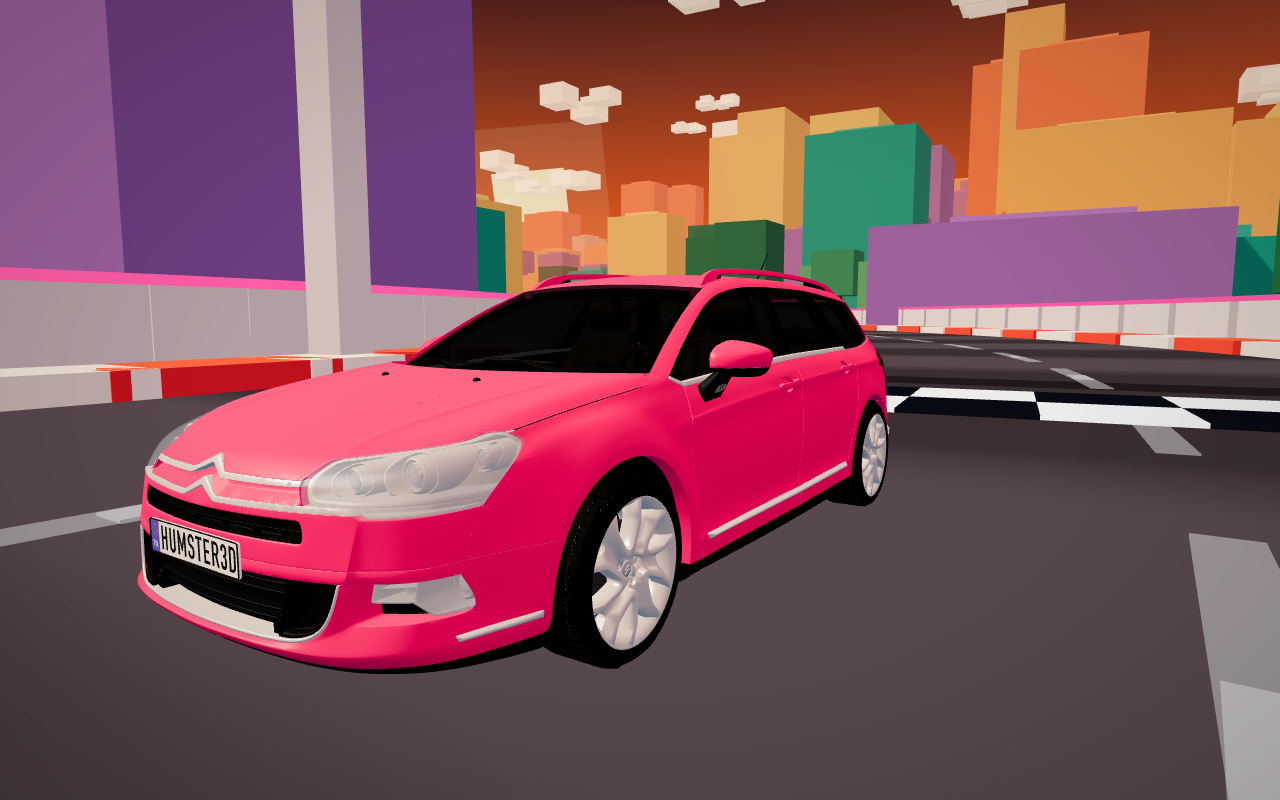
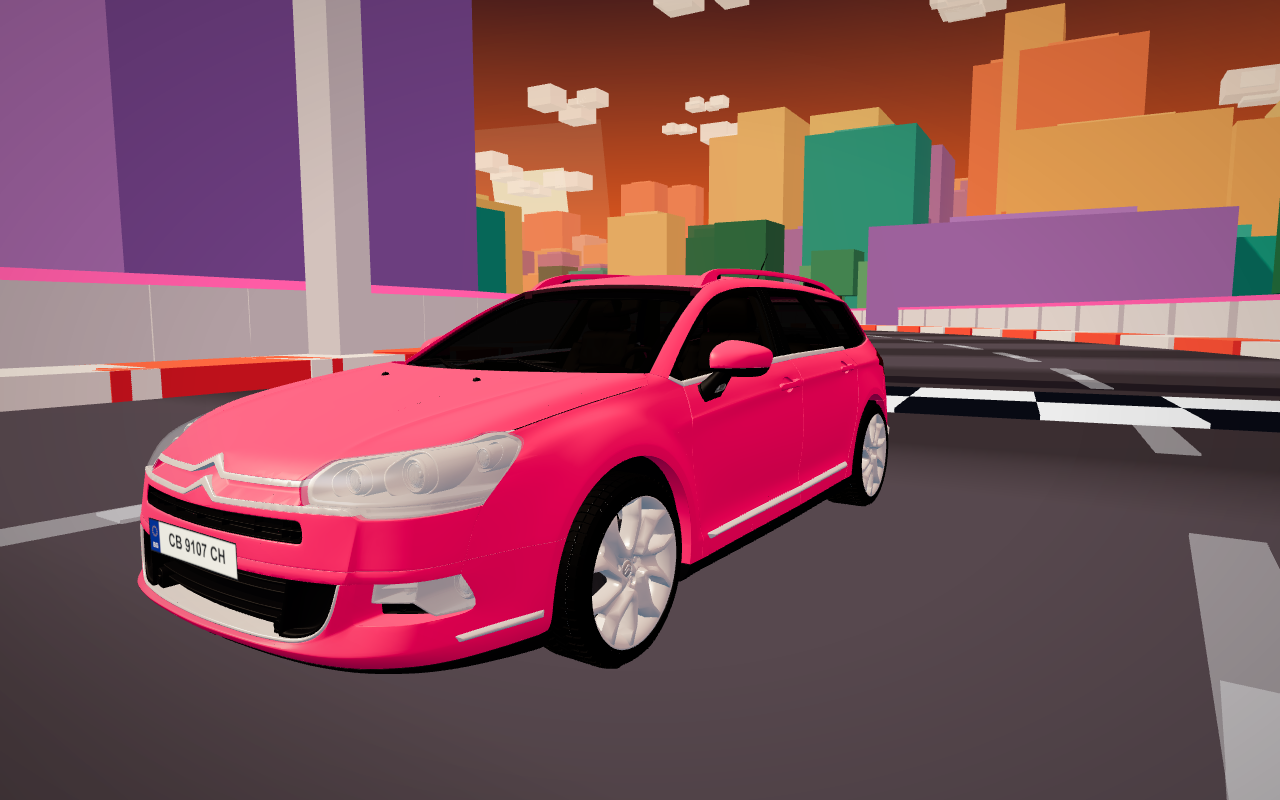
Give the Citroen C5 Tourer a Bulgarian plate
Replace the source HUMSTER3D watermark with a generated Bulgarian plate (EU band, BG, CB 9107 CH) on the front and rear plate clusters.

diff --git a/src/render/citroen-ac.js b/src/render/citroen-ac.js
@@ -49,6 +49,163 @@ function phong(options) {
   });
 }
 
+/** One point of a five-pointed star, for the EU badge. */
+function drawStar(ctx, cx, cy, r, color) {
+  ctx.fillStyle = color;
+  ctx.beginPath();
+  for (let i = 0; i < 10; i++) {
+    const angle = -Math.PI / 2 + i * Math.PI / 5;
+    const radius = i % 2 === 0 ? r : r * 0.42;
+    const x = cx + Math.cos(angle) * radius;
+    const y = cy + Math.sin(angle) * radius;
+    if (i === 0) ctx.moveTo(x, y); else ctx.lineTo(x, y);
+  }
+  ctx.closePath();
+  ctx.fill();
+}
+
+/**
+ * A Bulgarian plate: EU blue band with stars and BG, then the registration
+ * grouped as the country displays it.
+ * @returns {THREE.CanvasTexture|null}
+ */
+function makeBulgarianPlate() {
+  if (typeof document === 'undefined') return null;
+
+  const W = 1024, H = 216;
+  const canvas = document.createElement('canvas');
+  canvas.width = W; canvas.height = H;
+  const ctx = canvas.getContext('2d');
+
+  ctx.fillStyle = '#f4f2e8';
+  ctx.fillRect(0, 0, W, H);
+  ctx.strokeStyle = '#1b1e24';
+  ctx.lineWidth = 10;
+  ctx.strokeRect(5, 5, W - 10, H - 10);
+
+  const band = 122;
+  ctx.fillStyle = '#003399';
+  ctx.fillRect(10, 10, band, H - 20);
+  const cx = 10 + band / 2;
+  for (let i = 0; i < 12; i++) {
+    const angle = -Math.PI / 2 + i * Math.PI / 6;
+    drawStar(ctx, cx + Math.cos(angle) * 29, 78 + Math.sin(angle) * 29, 5.5, '#ffd617');
+  }
+  ctx.fillStyle = '#f4f2e8';
+  ctx.font = 'bold 42px Arial, Helvetica, sans-serif';
+  ctx.textAlign = 'center';
+  ctx.textBaseline = 'middle';
+  ctx.fillText('BG', cx, 171);
+
+  // Bulgarian registration grouping: two letters, four digits, two letters.
+  ctx.fillStyle = '#161a20';
+  ctx.font = 'bold 116px Arial, Helvetica, sans-serif';
+  ctx.textAlign = 'center';
+  ctx.textBaseline = 'middle';
+  ctx.fillText('CB 9107 CH', band + (W - band) / 2, H / 2 + 3);
+
+  const tex = new THREE.CanvasTexture(canvas);
+  tex.colorSpace = THREE.SRGBColorSpace;
+  tex.anisotropy = 4;
+  return tex;
+}
+
+/** Find the one body mesh that uses a material with this name prefix. */
+function meshWithMaterial(model, prefix) {
+  let found = null;
+  model.traverse((o) => {
+    if (found || !o.isMesh) return;
+    const mats = Array.isArray(o.material) ? o.material : [o.material];
+    if (mats.some((m) => m && (m.name || '').toLowerCase().startsWith(prefix))) found = o;
+  });
+  return found;
+}
+
+/** Vertices of one plate cluster (front z>0, rear z<0) in model space. */
+function platePoints(mesh, front) {
+  const pos = mesh.geometry.getAttribute('position');
+  const points = [];
+  for (let i = 0; i < pos.count; i++) {
+    const z = pos.getZ(i);
+    if (front ? z > 0 : z < 0) points.push(new THREE.Vector3(pos.getX(i), pos.getY(i), pos.getZ(i)));
+  }
+  return points;
+}
+
+/** Centre of a point cloud. */
+function centreOf(points) {
+  return new THREE.Box3().setFromPoints(points).getCenter(new THREE.Vector3());
+}
+
+/** The rear plate leans with the tailgate; recover its up direction. */
+function rearPlateUp(blueMesh) {
+  if (!blueMesh) return new THREE.Vector3(0, 1, 0);
+  const pts = platePoints(blueMesh, false);
+  if (!pts.length) return new THREE.Vector3(0, 1, 0);
+  let zmin = Infinity, zmax = -Infinity;
+  for (const p of pts) { if (p.z < zmin) zmin = p.z; if (p.z > zmax) zmax = p.z; }
+  const mid = (zmin + zmax) / 2;
+  const low = new THREE.Vector3(), high = new THREE.Vector3();
+  let nl = 0, nh = 0;
+  for (const p of pts) {
+    if (p.z < mid) { low.add(p); nl++; } else { high.add(p); nh++; }
+  }
+  if (!nl || !nh) return new THREE.Vector3(0, 1, 0);
+  low.divideScalar(nl); high.divideScalar(nh);
+  const up = high.sub(low).normalize();
+  return up.lengthSq() > 0.1 ? up : new THREE.Vector3(0, 1, 0);
+}
+
+/**
+ * Replace the model's "HUMSTER3D" plate text with a Bulgarian plate. The old
+ * plate materials are hidden behind a pair of textured planes placed on the
+ * front and rear plate clusters.
+ */
+function addBulgarianPlates(model) {
+  const textMesh = meshWithMaterial(model, 'material__2');
+  if (!textMesh) return;
+
+  const blueMesh = meshWithMaterial(model, 'material__3');
+  const texture = makeBulgarianPlate();
+  if (!texture) return;
+
+  const material = new THREE.MeshBasicMaterial({
+    map: texture,
+    side: THREE.DoubleSide,
+    toneMapped: false,
+  });
+
+  const frontPoints = platePoints(textMesh, true);
+  const rearPoints = platePoints(textMesh, false);
+  if (!frontPoints.length && !rearPoints.length) return;
+
+  // Hide the old white/black/blue/yellow plate pieces; the planes replace them.
+  for (const prefix of ['material__1', 'material__2', 'material__3', 'material__4']) {
+    const mesh = meshWithMaterial(model, prefix);
+    if (mesh) mesh.visible = false;
+  }
+
+  const addPlate = (points, up) => {
+    if (!points.length) return;
+    const centre = centreOf(points);
+    const normal = new THREE.Vector3().crossVectors(up, new THREE.Vector3(1, 0, 0)).normalize();
+    // The front normal is +Z, the rear normal is -Z plus the tailgate rake.
+    if (normal.z * centre.z < 0) normal.negate();
+    const right = normal.z > 0 ? new THREE.Vector3(1, 0, 0) : new THREE.Vector3(-1, 0, 0);
+    const plateUp = new THREE.Vector3().crossVectors(normal, right).normalize();
+    const plane = new THREE.Mesh(new THREE.PlaneGeometry(0.52, 0.11), material);
+    plane.quaternion.setFromRotationMatrix(new THREE.Matrix4().makeBasis(right, plateUp, normal));
+    plane.position.copy(centre).addScaledVector(normal, 0.003);
+    plane.castShadow = false;
+    plane.receiveShadow = true;
+    plane.userData.noConvert = true; // keep the plate texture out of the car repaint
+    model.add(plane);
+  };
+
+  addPlate(frontPoints, new THREE.Vector3(0, 1, 0));
+  addPlate(rearPoints, rearPlateUp(blueMesh));
+}
+
 /**
  * Build the visible Tourer on the game chassis. The model is already in
  * metres, grounded at y=0 and centred on its wheelbase, so the only offset is
@@ -67,6 +224,10 @@ export function createCitroenCar(paint) {
   const model = citroenScene.clone(true);
   model.position.set(0, -chassis.position.y, 0);
   chassis.add(model);
+
+  // The source car wears a watermark plate. Replace it with the game's
+  // Bulgarian registration before the imported materials are repainted.
+  addBulgarianPlates(model);
 
   const cache = new Map();
   const brakeMats = [];
@@ -171,6 +332,7 @@ export function createCitroenCar(paint) {
 
   model.traverse((o) => {
     if (!o.isMesh) return;
+    if (o.userData && o.userData.noConvert) return;
     o.castShadow = false;
     o.receiveShadow = true;
     const src = Array.isArray(o.material) ? o.material : [o.material];
